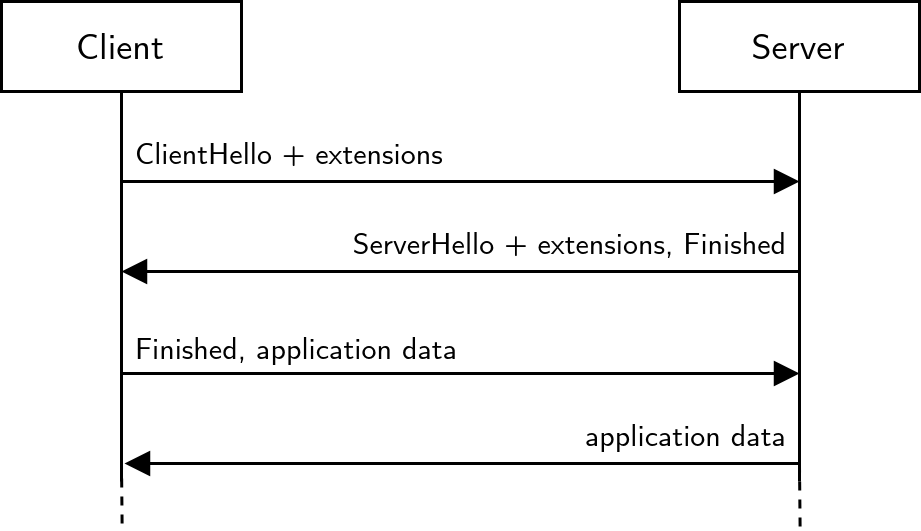
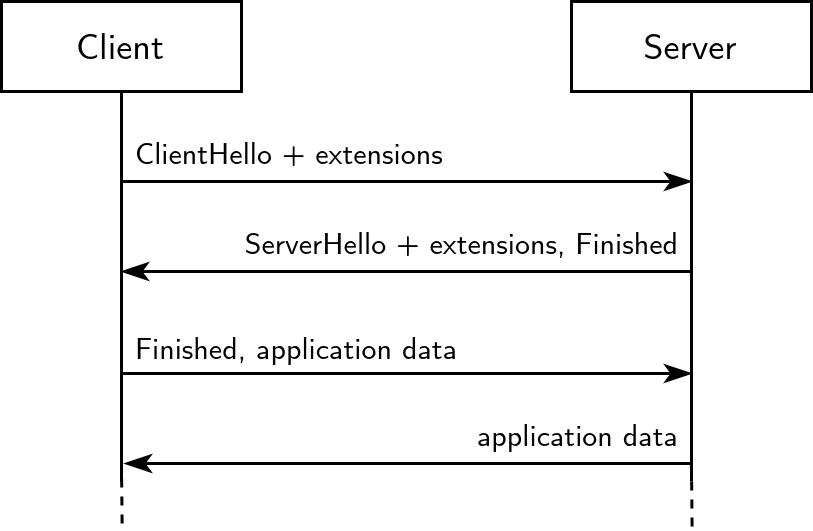
Some TLS background+misc work

diff --git a/report/background.tex b/report/background.tex
@@ -2,9 +2,7 @@
 
 This chapter offers an overview of the technology and concepts needed to understand the context and relevance of the work within the broader world. The review is conducted predominately through a networking, security and privacy perspective to best highlight the aspects pertinent to the distributed deployment of ECH. This chapter also represents the bulk of the effort put into investigating and studying the functioning of ECH while identifying and experimenting with different deployment models.
 
-This chapter<contents and why "we see how trans and the domain name interacts with ech" "inspect the functioning of ech" "">
-This chapter<contents and why "we see how trans and the domain name interacts with ech" "inspect the functioning of ech" "">
-This chapter<contents and why "we see how trans and the domain name interacts with ech" "inspect the functioning of ech" "">
+The contents of this chapter include a high level description of the Transport Layer Security protocol and the Domain Name System with a more detailed look at the components that enable ECH functionality. This is followed by an inspection of ECH itself, its security properties and the mechanisms which allow for distributed deployment. Finally, we survey how a variety of traffic analysis techniques that can be used to infer sensitive information from patterns in network activity, as well as the countermeasures which exist to mask these patterns.
 
 
 
@@ -20,18 +18,20 @@ Transport Layer Security (TLS) is a cryptographic protocol proposed by the Inter
 TLS is designed to operate on top of a reliable transmission protocol between a client and server, such as the Transmission Control Protocol (TCP) when used over the Internet. In order to prevent eavesdropping, tampering and message forgery, TLS includes a number of security features based on a number of cryptographic mechanisms:
 
 \begin{description}
-	\item[Confidentiality] All service and application data exchanged between the client and server is encrypted as to make it indecipherable to any intermediate party which might be intercepting their communication.
-	\item[Data integrity] In a similar manner, cryptographic properties are used to guarantee all transferred data cannot be modified during transmission.
-	\item[Authentication] TLS provides the ability for both participants to verify the identity of the other, ensuring privileged communication is only performed with the intended recipient.
+	\item[Confidentiality:] All service and application data exchanged between the client and server is encrypted as to make it indecipherable to any intermediate party which might be intercepting their communication. For example, consider the importance of protecting customer passwords and banking information when accessing financial services.
+	\item[Data integrity:] In a similar manner, cryptographic properties are used to guarantee transferred data cannot be modified during transmission. This is critical for safeguarding against input manipulation in consequential situations, such as while conducting a monetary transaction.
+	\item[Authentication:] TLS provides the ability for both participants to verify the identity of the other, ensuring privileged communication is only performed with the intended recipient. Such a condition is fundamental for establishing trust and confidence in sensitive environments, as is required when interacting with online financial institutions.
 \end{description}
 
-TLS 1.3 is the latest defined standard for the protocol, having been published in August 2018 and contributing to the deprecation of TLS 1.0 and TLS 1.1 in March 2021~\cite{rfc8446, rfc8996}. <It introduces many major changes to TLS 1.2 which enables numerous new <encryption of handshake>>
+TLS 1.3 is the latest defined standard for the protocol, having been published in August 2018 and contributing to the deprecation of TLS 1.0 and TLS 1.1 in March 2021~\cite{rfc8446, rfc8996}. It introduces many major changes to TLS 1.2, including the addition of a zero round trip time resumption (0-RTT) mode, further encryption and optimisation of the handshake and removal of outdated cryptographic algorithms and security mechanism with all key exchanges now providing forward secrecy. A change of particular relevance to ECH is the encryption of the server certificate received by the client to authenticate the server. Without this, the identity of the server is apparent to all observers so ECH would be far less valuable. Let us now examine <these>
 
 \subsection{Digital Certificates}
 
 TLS uses digital certificates to make assertions on the identity of entities within the network. These certificates contain <> which enables , provided a number of <steps>
 
-These certificates are exchanged during the establishment of secure communication between the client and server to . Their <functioning> is based on a number
+% These certificates are exchanged during the TLS handshake,  of secure communication between the client and server to . Their <functioning> is based on a number
+%
+% They serve as a crucial component of the TLS handshake process, enabling both parties to authenticate each other's identity and establish a secure communication channel
 
 <public key, trust>
 
@@ -44,7 +44,7 @@ These certificates are exchanged during the establishment of secure communicatio
 \subsection{Handshake}
 
 \begin{figure}[ht]
-\centerline{\includegraphics[width=160mm]{images/tls-handshake.png}}
+\centerline{\includegraphics[width=120mm]{images/tls-handshake.png}}
 \caption[Basic TLS 1.3 handshake]{<>}
 \label{tls_handshake_figure}
 \end{figure}

diff --git a/report/implementation.tex b/report/implementation.tex
@@ -21,7 +21,7 @@ qemu+debvm
 
 \begin{listing}[ht]
 \inputminted{bash}{snippets/build.bash}
-\caption{TODO builder}
+\caption[Building OpenSSL from source inside build.img with DebVM]{TODO builder}
 \end{listing}
 
 \subsection{Networking}
@@ -30,21 +30,21 @@ qemu+debvm
 
 \begin{listing}[ht]
 \inputminted{bash}{snippets/br0.bash}
-\caption{TODO bridge}
+\caption[Connecting QEMU virtual machines using a network bridge]{TODO br0}
 \end{listing}
 
 \blindtext
 
 \begin{listing}[ht]
 \inputminted{ini}{snippets/br0.ini}
-\caption{TODO bridge in}
+\caption[Static bridge network configuration using systemd]{TODO /etc/systemd/network/00-br0.network contents}
 \end{listing}
 
 \blindtext
 
 \begin{listing}[ht]
 \inputminted{bash}{snippets/root.bash}
-\caption{TODO root ca}
+\caption[Generating a new self-signed root CA X.509 certificate using OpenSSL]{TODO root ca}
 \end{listing}
 
 \blindtext
@@ -64,21 +64,21 @@ qemu+debvm
 
 \begin{listing}[ht]
 \inputminted{bash}{snippets/dns.bash}
-\caption{TODO dns}
+\caption[Signing a new X.509 certificate for ns.example.com using OpenSSL]{TODO dns}
 \end{listing}
 
 \blindtext
 
 \begin{listing}[ht]
 \inputminted{bash}{snippets/bind}
-\caption{TODO dns}
+\caption[DNS over HTTPS configuration using BIND 9]{TODO /etc/bind/named.conf contents}
 \end{listing}
 
 \blindtext
 
 \begin{listing}[ht]
 \inputminted{zone}{snippets/example.zone}
-\caption{TODO dns}
+\caption[Zone file for example.com zone with distributed ECH]{}
 \end{listing}
 
 \blindtext
@@ -103,21 +103,19 @@ qemu+debvm
 
 \begin{listing}[ht]
 \inputminted{bash}{snippets/host_wg.bash}
-\caption{TODO host wg}
+\caption[Generating a new WireGuard key pair for tcd.example.com]{TODO host wg}
 \end{listing}
 
 \blindtext
 
 \begin{listing}[ht]
 \inputminted{ini}{snippets/host_wg.ini}
-\caption{TODO host wg}
+\caption[Configuring a WireGuard network interface using systemd]{TODO host wg}
 \end{listing}
-
-\blindtext
 
 \begin{listing}[ht]
 \inputminted{ini}{snippets/host_wg0.ini}
-\caption{TODO host wg0}
+\caption[Static WireGuard network configuration using systemd]{TODO host wg0}
 \end{listing}
 
 \blindtext
@@ -128,21 +126,21 @@ qemu+debvm
 
 \begin{listing}[ht]
 \inputminted{bash}{snippets/host_tls.bash}
-\caption{TODO host+site tls}
+\caption[Generating a new ECH key pair for tcd.example.com using OpenSSL]{TODO host+site tls}
 \end{listing}
 
 \blindtext
 
 \begin{listing}[ht]
 \inputminted{nginx}{snippets/nginx}
-\caption{TODO nginx}
+\caption[Distributed ECH NGINX configuration for tcd.example.com]{TODO nginx}
 \end{listing}
 
 \blindtext
 
 \begin{listing}[ht]
 \inputminted{bash}{snippets/padding.bash}
-\caption{TODO padding}
+\caption[Rudimentary script to shroud legitimate WireGuard communication]{}
 \end{listing}
 
 \blindtext
@@ -168,20 +166,26 @@ qemu+debvm
 
 \begin{listing}[ht]
 \inputminted{nginx}{snippets/curl.bash}
-\caption{TODO curl}
+\caption[Command to use ECH-enabled curl on QEMU virtual machines]{TODO curl}
 \end{listing}
 
 \blindtext
+
+<screenshot>
 
 
 \subsection{Mozilla Firefox}
 
 \blindtext
 
+<screenshot>
+
 
 \subsection{Google Chrome}
 
 \blindtext
+
+<screenshot>
 
 
 
